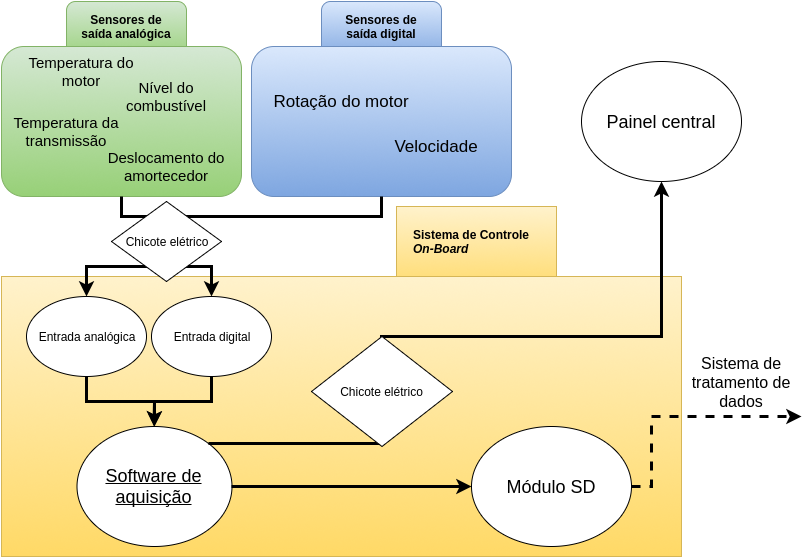
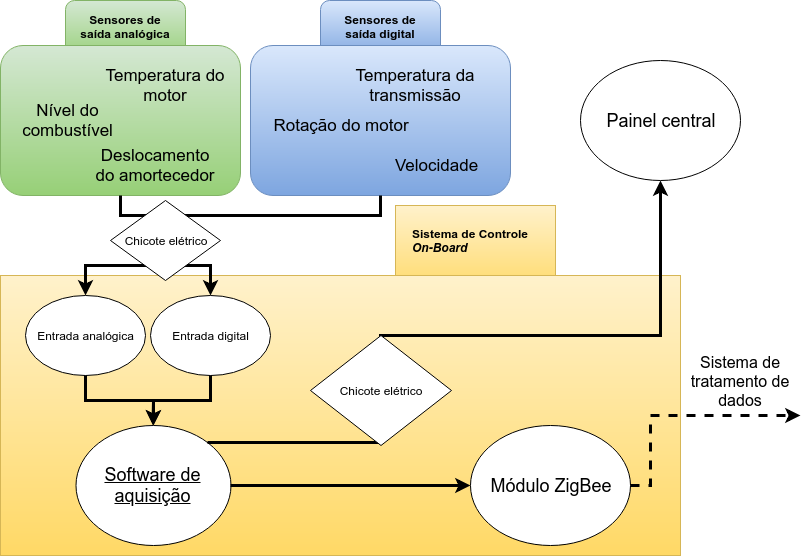
making review

diff --git a/tcc2/proposta.tex b/tcc2/proposta.tex
@@ -27,7 +27,7 @@ Os objetivos que devem nortear o trabalho a fim de sanar os problemas levantados
 
 Produzir um sistema que forneça a equipe informações que irão ajudar aos setores de projeto do veículo como suspensão dianteira, suspensão traseira, freio, transmissão e eletrônica em testes de bancada, bem como fornecer dados de uso geral da equipe como média do consumo de gasolina em prova para análises posteriores. 
 
-O sistema é dividido em duas frentes: a parte de \textbf{aquisição} dos dados, feito junto ao SCOB com base nos dados recebidos via sensores revisados na seção \ref{sec:sensores}, esta parte já existe atualmente no baja Velociraptor, porém ela deve ser atualizada para acompanhar os avanços do novo \textit{software}; a parte de \textbf{tratamento} dos dados é o foco deste trabalho, nesta parte os dados serão armazenados em um cartão SD no SCOB e quando conectados a computadores de boxes, seus dados ali contidos são lidos por um \textit{software} que permite visualização de gráficos e mostra de valores absolutos de maior importância. A Figura \ref{fig:esquemageral} possui dois diagramas, o diagrama da Figura \ref{fig:esquemageral}\subref{fig:geralatual} traz um esquema geral que atualmente é utilizado pelo Velociraptor no seu projeto, já a Figura \ref{fig:esquemageral}\subref{fig:geralproposto} traz um esquema geral proposto para este trabalho de conclusão de curso, desde a aquisição dos dados pelos SCOBs até o tratamento dos dados nos boxes com o \textit{software}. Em ambas as figuras os balões em azul indicam os sensores, os balões em laranja indicam \textit{hardware} de controle e balões em verde indicam \textit{software}, os balões com texto em negrito indicam modificação/criação de um sistema.         
+O sistema é dividido em duas frentes: a parte de \textbf{aquisição} dos dados, feito junto ao SCOB com base nos dados recebidos via sensores revisados na seção \ref{sec:sensores}, esta parte já existe atualmente no baja Velociraptor, porém ela deve ser atualizada para acompanhar os avanços do novo \textit{software}; a parte de \textbf{tratamento} dos dados é o foco deste trabalho, nesta parte os dados serão transmitidos por um módulo de transmissão de dados sem fio ZigBee e lidos por um \textit{software} que permite visualização de gráficos e mostra de valores absolutos de maior importância. A Figura \ref{fig:esquemageral} possui dois diagramas, o diagrama da Figura \ref{fig:esquemageral}\subref{fig:geralatual} traz um esquema geral que atualmente é utilizado pelo Velociraptor no seu projeto, já a Figura \ref{fig:esquemageral}\subref{fig:geralproposto} traz um esquema geral proposto para este trabalho de conclusão de curso, desde a aquisição dos dados pelos SCOBs até o tratamento dos dados nos boxes com o \textit{software}. Em ambas as figuras os balões em azul indicam os sensores, os balões em laranja indicam \textit{hardware} de controle e balões em verde indicam \textit{software}, os balões com texto em negrito indicam modificação/criação de um sistema.         
 
 %\begin{figure}[!htb]
 %	\centering
@@ -40,9 +40,9 @@ O sistema é dividido em duas frentes: a parte de \textbf{aquisição} dos dados
 \begin{figure}[!htb]
 	\center
 	\caption{Diagrama com o esquema geral do sistema atual e o esquema geral do sistema proposto.}
-	\subfigure[Fonte:Autor][Esquema atual. Fonte:Autor]{\includegraphics[scale=0.3]{geralatual}\label{fig:geralatual}}
+	\subfigure[Fonte: Autor][Esquema atual. Fonte:Autor]{\includegraphics[scale=0.3]{geralatual}\label{fig:geralatual}}
 	\qquad
-	\subfigure[Fonte:Autor][Esquema proposto. Fonte:Autor]{\includegraphics[scale=0.3]{geralproposto}\label{fig:geralproposto}}
+	\subfigure[Fonte: Autor][Esquema proposto. Fonte:Autor]{\includegraphics[scale=0.3]{geralproposto}\label{fig:geralproposto}}
 	\label{fig:esquemageral}
 \end{figure}
 
@@ -50,20 +50,14 @@ O sistema é dividido em duas frentes: a parte de \textbf{aquisição} dos dados
 \subsection{Objetivos Específicos} 
 
 \begin{itemize}[label={-}]
-	\item O sistema deve ser independente em relação ao meio em que os dados são transportados do SCOB para os boxes, desta forma em atualizações futuras o método atual de transferência de dados pode ser substituído por telemetria;
+	\item O sistema deve ser independente em relação ao meio em que os dados são transportados do SCOB para os boxes, desta forma em atualizações futuras o método atual de transferência de dados pode ser substituído;
 	\item O \textit{software} deve ser independente de sistema operacional;
 	\item O \textit{software} deve possuir informações específicas para cada área da engenharia automobilística;
 	\item O \textit{software} deve ser construído de forma a facilitar a manutenção evolutiva, preparado para chegada de novos sensores;
-	\item Deve ser criada e atualizada uma documentação do \textit{software};
 	\item Deve se instaurar uma cultura de utilização de plataformas de versionamento para facilitar manutenções adaptativas e manutenções corretivas.
 \end{itemize}
 
-A Figura \ref{fig:SCRUMboard} mostra graficamente o quadro de atividades que será utilizado no método \textit{SCRUM} visto na Seção \ref{sec:engenhariadesoftware}, para auxílio na produção do sistema. O quadro inicia com a etapa de \textit{Product Backlog}, nesta etapa serão realizadas conversas para definir as necessidades do \textit{product owner} e tais necessidades vão ser convertidas em histórias, estas histórias tem o objetivo de mostrar a equipe de produção o que o usuário pretende alcançar com certa melhoria. Na etapa de \textit{Sprint Backlog} as histórias com maior relevância para o sistema são trabalhadas, estas histórias tem tempo máximo de conclusão de 2 semanas e se concluídas irão passar para a próxima etapa, se não foram, voltam para o \textit{Product Backlog}. A próxima etapa é a \textit{Validação}, nesta etapa as histórias codificadas na etapa anterior serão validadas junto a equipe com entrevistas e testes de funcionalidade para prevenção de \textit{bugs}, caso as histórias não sejam validadas elas devem retornar ao \textit{Product Backlog}. A etapa de \textit{Code Review} tem como objetivo fazer uma revisão do código para toda a equipe de desenvolvimento, no caso específico deste trabalho, esta etapa será utilizada para manter a equipe de eletrônica do baja Velociraptor atualizada e facilitar a manutenção futura do \textit{software}. Na última etapa (\textit{Feito}) são armazenadas as histórias concluídas.    
+Os objetivos específicos devem nortear a produção deste sistema. Atingindo as metas propostas se espera que o objetivo geral do projeto seja alcançado, trazendo essas informações do veículo para a equipe presente nos boxes.
 
-\begin{figure}[!htb]
-	\centering
-		\caption{Diagrama com a sequência de atividades proposta para o método \textit{SCRUM}.}
-		\includegraphics[scale=0.35]{SCRUMboard.png} 
-		\caption*{Fonte: Autor.}
-		\label{fig:SCRUMboard}
-\end{figure} 
+\subsection{Mudanças de escopo}
+O projeto teve uma mudança importante que deve ser citada. No início do processo de desenvolvimento do sistema, algumas reuniões com a equipe Velociraptor levaram a mudança do escopo antigo de trabalho, com utilização do módulo SD, para uma abordagem que utiliza de telemetria com módulos ZigBee. Esta mudança foi feita para acompanhar o projeto anual do sub-sistema de eletrônica embarcada sendo que esta mudança era uma meta inicial do projeto para trabalhos futuros. A mudança foi realizada tendo em vista a melhor abrangia do escopo, fazendo com que o resultado final seja mais consistente no quesito de entrega de resultados reais. Estas mudanças de escopo são também discutidas na Seção \ref{sec:hardwareutilizado}.

diff --git a/tcc2/consideracoes.tex b/tcc2/consideracoes.tex
@@ -1,7 +1,11 @@
-\chapter{Considerações Finais}
+\chapter{Conclusão e Trabalhos Futuros}
 	\label{ch:consideracoes}
-O desenvolvimento de um \textit{software} de tratamento de dados para o veículo da categoria baja SAE se provou necessário devido ao nível de complexidade e quantidade de sensores que fazem e devem fazer parte do projeto da equipe Velociraptor. Apenas a utilização de arquivos de texto para gerenciamento das informações pode deixar a tarefa confusa e árdua e dificulta o armazenamento das informações de forma compreensiva, centralizada.
+O desenvolvimento de um \textit{software} de tratamento de dados para o veículo da categoria baja SAE se mostrou necessário devido ao nível de complexidade e quantidade de sensores que fazem e devem fazer parte do projeto da equipe Velociraptor. Apenas a utilização de arquivos de texto para gerenciamento das informações pode deixar a tarefa confusa, árdua e dificulta o armazenamento das informações de forma compreensiva e centralizada. O sistema produzido alcança o objetivo geral estipulado, abrangendo todos os sensores contidos no veículo e alguns que ainda se encontram em desenvolvimento já estão implementados no sistema de tratamento. Ele também auxilia na manutenção indicando possíveis falhas para a equipe caso alguma grandeza saia dos padrões estabelecidos durante testes ou provas. Além da parte de \textit{software} possuir essas características, o sistema foi utilizado em um teste pratico e com resultados reais, onde a equipe pode verificar o funcionamento de algumas grandezas importantes do sistema, os dados da suspensão traseira e temperatura de operação do motor. Tendo isto dito, foi possível verificar que as características propostas no início do Capitulo \ref{ch:proposta} de demonstração dos dados de forma intuitiva, simplificação de complexidade com a junção dos dados em um único ambiente, modularidade para adição de novas tecnologias e armazenamento dos dados tratados foram atingidas devido aos testes realizados e também ao \textit{feedback} recebido pelos membros da equipe Velociraptor.
 
-Além da validação de conceito, a literatura também dá algumas ideias relevantes para o projeto que devem ser analisadas para uma segunda parte. Em \citeonline{designAndImplementation2015} é comentado o uso de um \textit{Inertial Measurement Unit} com um sensor InvenSense MPU6050 que trabalha em conjunto com o SCOB para capturar informações de aceleração e velocidade angular. Em \citeonline{wirelessSensorNetwork2015}, mesmo que em um escopo diferente, é comentado o uso de um sensor MiniSense 100 para aquisição da grandeza de vibração, dado que pode ser útil para a prova de ergonomia realizada nos eventos do baja SAE.
+% As barreiras de levantamento de requisitos existentes eram foram quebradas com a constante participação do cliente na concepção do projeto e no desenvolvimento do mesmo. O sistema que foi criado a partir de conversar e reuniões atendeu as expectativas iniciais da equipe, porém melhorias ainda devem ser feitas devido ao fato do objetivo final do projeto é ter o sistema utilizado nas competições do Baja Sul 2018 e Baja Nacional 2018. 
 
-Contudo, a literatura não traz muitas informações sobre quais principais fatores devem ser levados em conta na hora da criação do \textit{software} de tratamento de dados. Devido ao fato de ser um cenário muito específico e a falta de colaboração entre equipes vista a natureza competitiva, estas informações serão levantadas junto a equipe na segunda parte deste trabalho. Após este levantamento, o principal objetivo será a produção deste sistema com a utilização de metodologias ágeis da engenharia de \textit{software} para garantir que os atributos desejáveis revisados neste trabalho sejam atingidos.        
+Em relação aos trabalhos futuros o sistema deve passar por uma etapa de refinamento das funções e de pesquisa de novas funcionalidades. Na etapa de refinamento  Dentre as funcionalidade que devem ser ajustadas a taxa de atualização deve ser mantida em 500 ms quando adicionados novos sensores ao veículo, considerando sensores de uso em competição. Os sensores que não estavam prontos para os testes finais devem ser adicionados ao veículo para realização de um teste completo do sistema antes do inicio das competições. Os sensores de extensometria serão implementados também ao sistema, logo que a parte de \textit{hardware} seja projetada e implementada pela equipe de eletrônica embarcada. Por ultimo, novos requisitos de testes podem surgir e a criação de novos parâmetros para apresentação de gráficos podem ser necessárias, um exemplo disto é a criação de uma janela específica para a realização de testes de aceleração do veículo.
+
+Em relação pesquisa para novas funcionalidade, uma área 
+
+Em um nível pessoal, este trabalho foi de grande importância para o autor não apenas pelo conhecimento técnico adquiro. Participar do desenvolvimento de um projeto como o baja SAE trouxe mais que isso, conseguir conciliar o que é necessário do que é desejado, criar um escopo de projeto com duração de um ano e a realização de um trabalho em equipe multidisciplinar com várias áreas da engenharia expandiu o entendimento sobre o que é trabalhar em colaboração de um objetivo maior e mais que isso, são conhecimentos que serão levados muito além deste trabalho.   

diff --git a/tcc2/desenvolvimento.tex b/tcc2/desenvolvimento.tex
@@ -18,6 +18,7 @@ Para a conexão do sistema de boxes com o microcontrolador é utilizado o protoc
 Um \textit{software} auxiliar foi utilizado para a configuração dos módulos ZigBee. O XCTU faz a configuração inicial entre os módulos a fim de ordenar quem terá qual papel na rede. Além de configurar quem será o coordenador e quem será o roteador/\textit{end-point}, o XCTU também configura qual será o ID da PAN, em qual modo o módulo irá operar seja ele API ou AT, permite envio de pacotes de teste entre os envolvidos e também de sequencias de pacotes. 
 
 \section{Hardware utilizado}
+\label{sec:hardwareutilizado}
 
 Para o desenvolvimento do sistema foram utilizados alguns equipamentos de \textit{hardware}. Devida a proposta de solução foi necessária a utilização de alguns equipamentos específicos para o desenvolvimento do sistema , estes equipamentos utilizados no sistema são listados a seguir:
 
@@ -32,7 +33,7 @@ Para o desenvolvimento do sistema foram utilizados alguns equipamentos de \texti
 
 Os módulos Xbee ZigBee PRO series 2 foram adicionados no decorrer do projeto. A telemetria foi uma das aspirações iniciais desse trabalho de conclusão de curso, porém devido ao tamanho do escopo do projeto a execução desta parte do sistema foi retirada. Contudo durante as reuniões feitas em conjunto com o sub-sistema de eletrônica da baja Velociraptor, foi decidido que a telemetria entraria no escopo anual do projeto 2018 do veículo. Com a entrada deste projeto, alguns dos membros se comprometeram a ajudar na construção desse sistema e também na compra dos módulos para uso do protocolo ZigBee. Tendo todo este cenário, foi decidido entre o autor e orientador pela opção de produção deste sistema pronto para receber dados via telemetria, no qual o sistema que adquire os dados é executado ao mesmo tempo que o sistema que trata esses mesmos dados. 
 
-Em relação ao módulo utilizado, ele possui as características base do protocolo ZigBee porém a versão comprada (PRO) possui algumas característica melhoradas. Por exemplo: O alcance urbano do Xbee ZigBee series 2 é de 60m, já da versão PRO é de 90m, o alcance em área rural/aberta, com pouca interferência de sinal, é de 1.200m na versão padrão e 3.200m na versão PRO \cite{xbeespecs}.
+Em relação ao módulo utilizado, ele possui as características base do protocolo ZigBee porém a versão comprada (PRO) possui algumas característica melhoradas. Por exemplo: O alcance urbano do Xbee ZigBee series 2 é de 40 metros, já da versão PRO é de 90 metros, o alcance em área rural/aberta, com pouca interferência de sinal, é de 120 metros na versão padrão e 3.200m na versão PRO \cite{xbeespecs}. Para a realizão dos testes foram utilizados um modulo Xbee ZigBee series 2 e um Xbee ZigBee PRO series 2, ambos são compatíveis sem necessidade de uso de bibliotecas auxiliares ou modificação de \textit{firmware}.
 
 O Xbee Explorer USB Adapter é um adaptador USB para utilizar o módulo ZigBee ligado direto aos computadores para configurar. Ele permite a utilização do \textit{software} XCTU de forma eficiente, sem a necessidade de conectar o módulo ZigBee a um outro módulo FTDI, que faz conexão com o computador. 
 

diff --git a/tcc2/fundamentacao.tex b/tcc2/fundamentacao.tex
@@ -332,7 +332,7 @@ O \textit{software} é parte essencial deste trabalho. Todas as grandezas adquir
 
 O \textit{software} de aquisição de dados é a primeira interação dos dados vindos dos sensores com algum tipo de tratamento. Este subsistema não é o foco deste trabalho, porém ele deve ser revisado pois caso o \textit{software} principal traga alguma mudança substancial na forma de tratamento dos dados, os subsistemas de aquisição dentro dos microcontroladores deve ser atualizado para satisfazer quaisquer novos requisitos.
 
-Este subsistema é produzido por três motivos: ele deve realizar a comunicação entre múltiplos microcontroladores em caso de uso de arquitetura distribuída, realizar qualquer cálculo inicial para demonstração de informações no painel e ele deve preparar os dados para passagem para o subsistema de tratamento de dados \cite{racecarInstrumentationFor2012}\cite{projetoMiniBaja2006}\cite{designAndImplementation2015}\cite{Dias2010}\cite{Nunes2016}. A Figura \ref{fig:aquisicaodiagrama} demonstra como este subsistema funciona, os sensores capturam as grandezas desejadas e enviam os dados para o SCOB via chicote elétrico. As saídas dos sensores são conectadas nas entradas digitais ou analógicas do microcontrolador. O \textit{software} atual é feito em C e utiliza a biblioteca padrão do Arduino, visto o uso do Arduino Nano V3. Os dados são armazenados em variáveis e a cada ciclo do programa, os mesmos são salvos em um cartão SD. A forma atual de armazenamento dos dados no cartão é com criação de arquivos de texto sem formatação específica, o que dificulta a leitura de dados em outros nós. Contudo será estudada a aplicação de alguns formatos de arquivo como \textit{comma-separated values} e \textit{javascript object notation}, ou a utilização de um banco de dados de modelo relacional caso seja possível a utilização de \textit{Single Board Computers} como visto na Seção \ref{sec:placasdedesenvolvimento}.      
+Este subsistema é produzido por três motivos: ele deve realizar a comunicação entre múltiplos microcontroladores em caso de uso de arquitetura distribuída, realizar qualquer cálculo inicial para demonstração de informações no painel e ele deve preparar os dados para passagem para o subsistema de tratamento de dados \cite{racecarInstrumentationFor2012}\cite{projetoMiniBaja2006}\cite{designAndImplementation2015}\cite{Dias2010}\cite{Nunes2016}. A Figura \ref{fig:aquisicaodiagrama} demonstra como este subsistema funciona, os sensores capturam as grandezas desejadas e enviam os dados para o SCOB via chicote elétrico. As saídas dos sensores são conectadas nas entradas digitais ou analógicas do microcontrolador. O \textit{software} atual é feito em C e utiliza a biblioteca padrão do Arduino, visto o uso do Arduino Nano V3. Os dados são armazenados em variáveis e a cada ciclo do programa, os mesmos são enviados via ZigBee.      
 
 \begin{figure}[!htb]
 	\centering

diff --git a/tcc2/capa.tex b/tcc2/capa.tex
@@ -4,7 +4,7 @@
 \ultimonome{Pereira}
 
 \bacharelado \curso{Ciência da Computação}
-\ano{2017}
+\ano{2018}
 \data {\today}
 \cidade{Joinville}
 
@@ -37,4 +37,4 @@
 \end{epigrafe}
 
 \agradecimento{Agradecimentos}
-Agradeço primeiramente aos meus pais, Lourenil e Benvinda, pelo suporte incondicional. Ao meu orientador Roberto Silvio Ubertino Rosso Jr. pela paciência e sabedoria transmitidas ao longo deste trabalho. A minha namorada Camila Will por sempre acreditar em mim mesmo quando eu não acreditava. Ao grupo de baja da UDESC Velociraptor pela oportunidade de trabalhar com pessoas incríveis como eles e aos meus amigos que estiveram sempre ao meu lado nas horas mais difíceis.   
+Agradeço primeiramente aos meus pais, Lourenil e Benvinda, pelo suporte incondicional. Ao meu orientador Roberto Silvio Ubertino Rosso Jr. pela paciência e sabedoria transmitidas ao longo deste trabalho. A minha namorada Camila Will por sempre acreditar em mim mesmo quando eu não acreditava. Ao grupo de Baja da UDESC Velociraptor pela oportunidade de trabalhar com pessoas incríveis como eles e aos meus amigos que estiveram sempre ao meu lado nas horas mais difíceis.   
